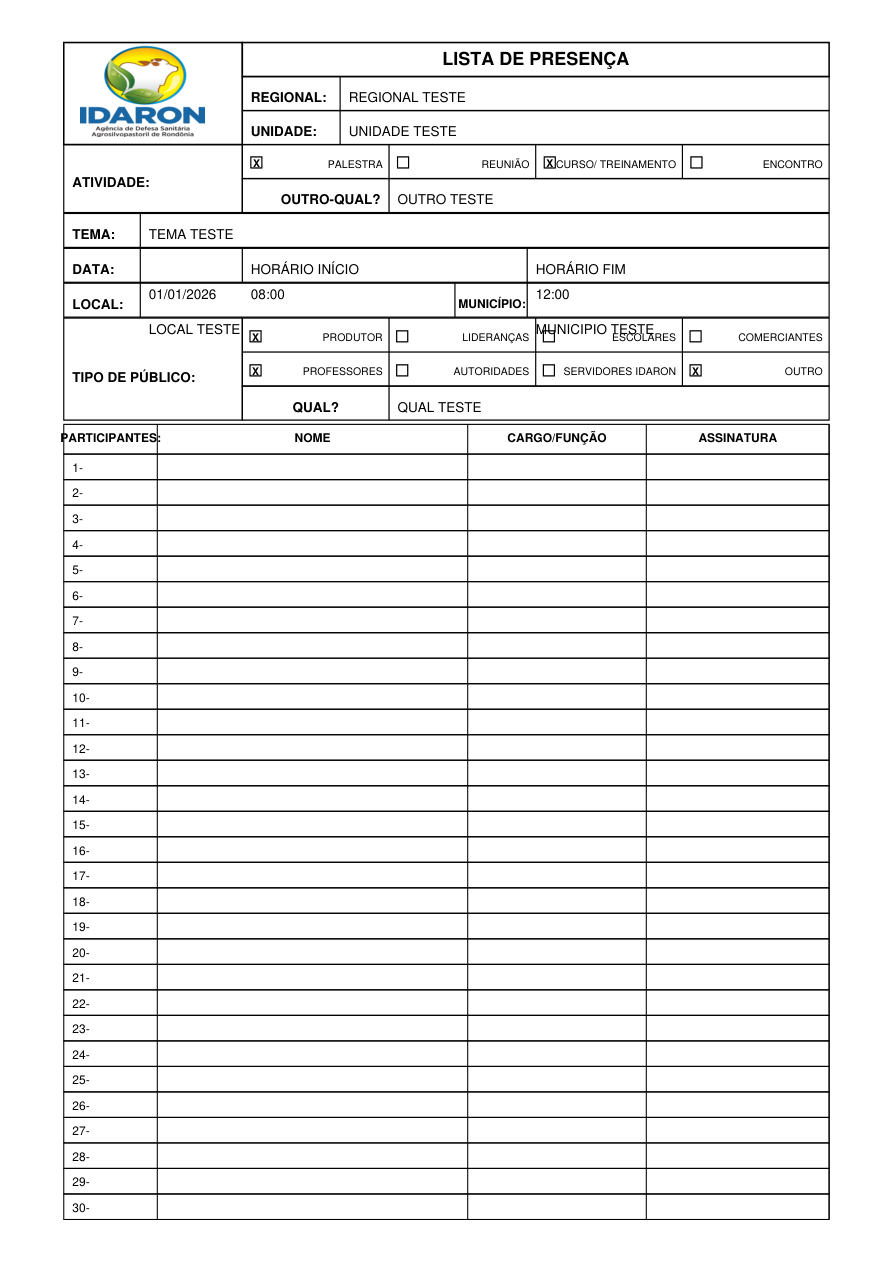
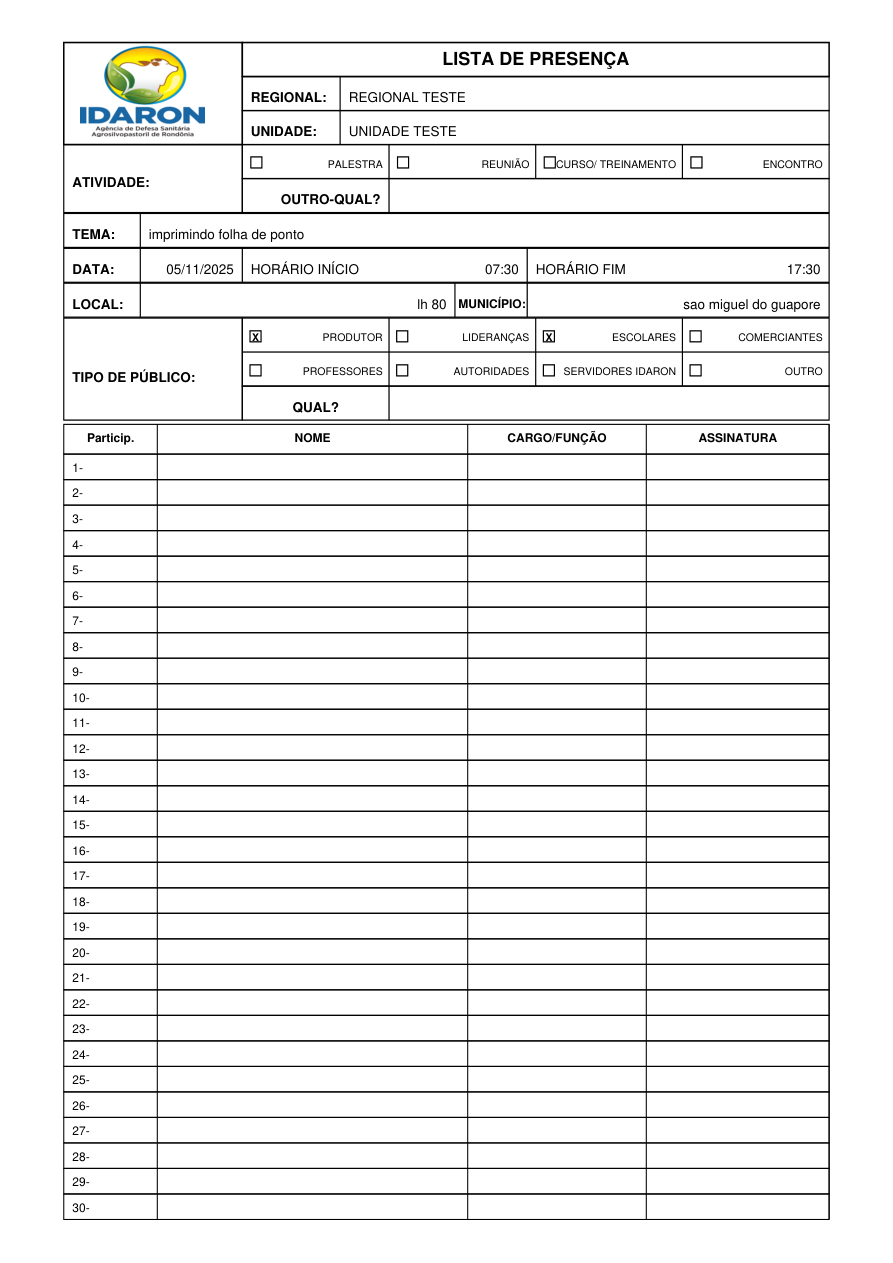
ajustando os campos errados

diff --git a/pdf/lista_presenca.py b/pdf/lista_presenca.py
@@ -161,9 +161,9 @@ def _draw_header(
     c.setFont('Helvetica', 9)
     c.drawString(x + 44 * mm, y - h + 2 * mm, 'HORÁRIO INÍCIO')
     c.drawString(x + 111 * mm, y - h + 2 * mm, 'HORÁRIO FIM')
-    c.drawString(rotulo_fim_x + 2 * mm, y - h - 4 * mm, str(data))
-    c.drawString(x + 44 * mm, y - h - 4 * mm, str(horario_inicio))
-    c.drawString(x + 111 * mm, y - h - 4 * mm, str(horario_fim))
+    c.drawRightString(x + 40 * mm, y - h + 2 * mm, str(data))
+    c.drawRightString(x + 107 * mm, y - h + 2 * mm, str(horario_inicio))
+    c.drawRightString(x + largura_tabela - 2 * mm, y - h + 2 * mm, str(horario_fim))
 
     y -= h + gap_entre_blocos
     # LOCAL / MUNICÍPIO
@@ -179,8 +179,8 @@ def _draw_header(
     c.setFont('Helvetica-Bold', 8)
     c.drawString(municipio_x + 0.8 * mm, y - h + 2.2 * mm, 'MUNICÍPIO:')
     c.setFont('Helvetica', 9)
-    c.drawString(rotulo_fim_x + 2 * mm, y - h - 4 * mm, str(local))
-    c.drawString(municipio_label_end_x + 2 * mm, y - h - 4 * mm, str(municipio))
+    c.drawRightString(municipio_x - 2 * mm, y - h + 2 * mm, str(local))
+    c.drawRightString(x + largura_tabela - 2 * mm, y - h + 2 * mm, str(municipio))
 
     y -= h + gap_entre_blocos
     # TIPO DE PÚBLICO
